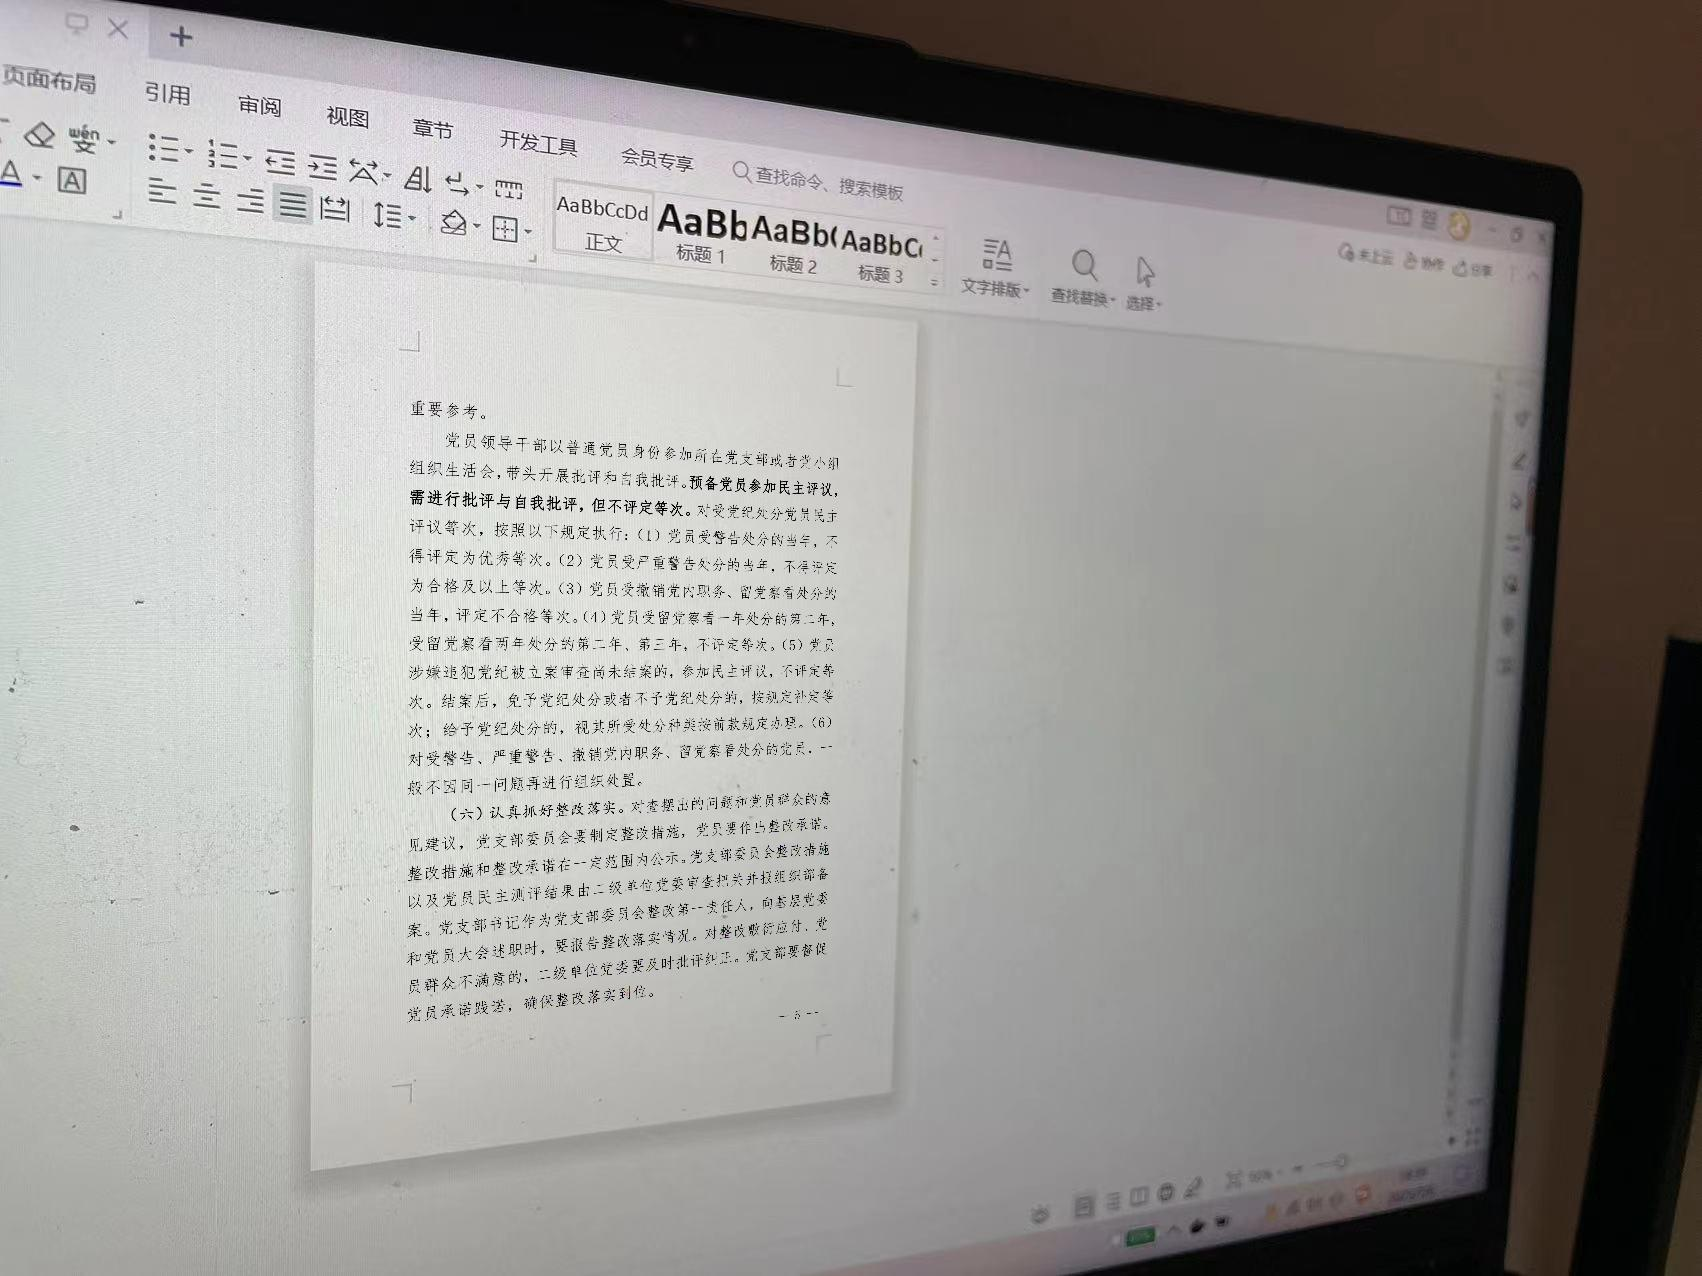
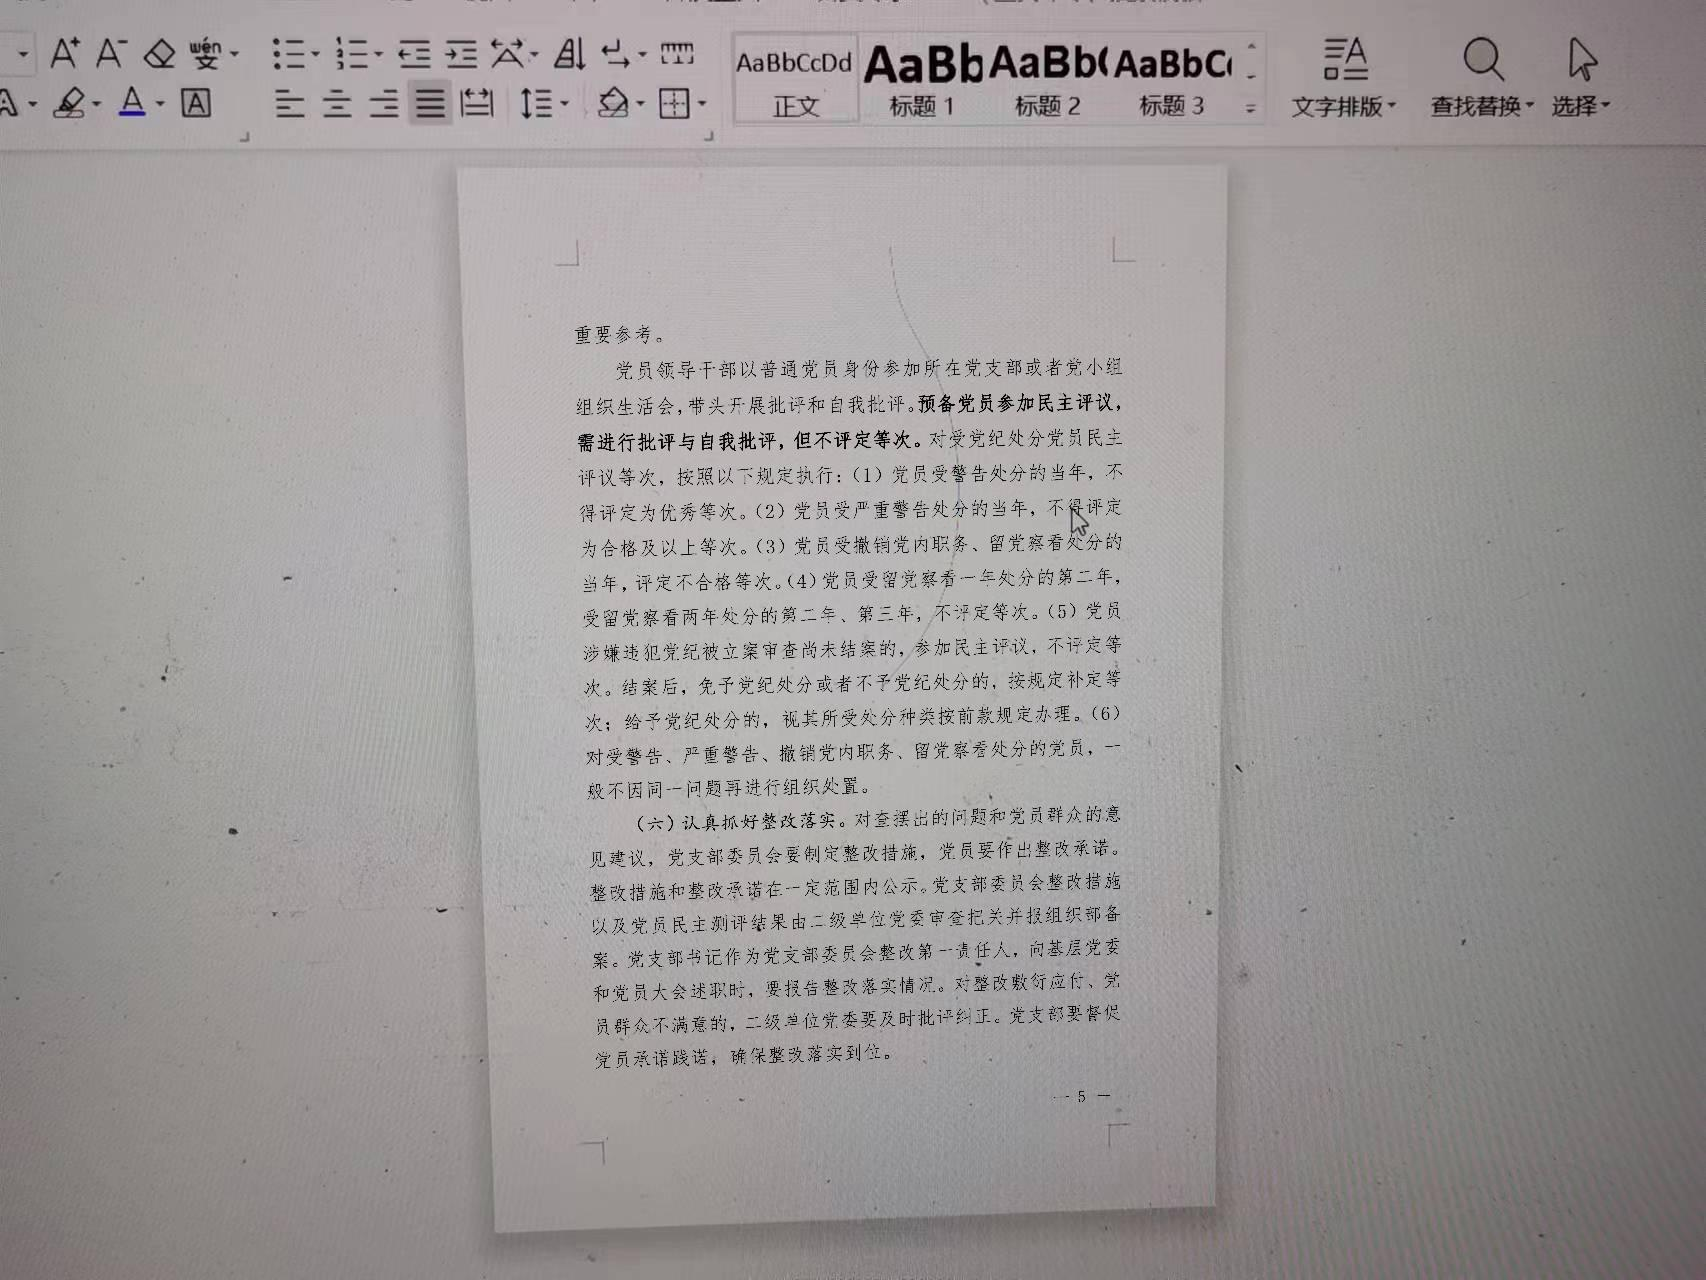
photo_screen

diff --git a/effects/screen_effect.py b/effects/screen_effect.py
@@ -1,0 +1,40 @@
+
+import cv2
+import numpy as np
+from PIL import Image
+import random
+
+
+class ScreenEffect:
+    def __init__(self):
+        # 背景图，四个坐标：左上，右上，右下，左下
+        self.screen = [
+            'moier1.jpg', 'moier2.jpg', 'moier3.jpg'
+        ]
+        self.background_path = 'effects/screen/'
+
+    def main(self, image):
+        # 将Pillow的Image对象转换为NumPy数组
+        image_array = np.array(image)
+        # # 将NumPy数组从RGB模式转换为BGR模式
+        # bgr_image_array = cv2.cvtColor(image_array, cv2.COLOR_RGB2BGR)
+        # 将NumPy数组转换为OpenCV的图像对象
+        image = cv2.cvtColor(image_array, cv2.COLOR_BGR2RGB)
+
+        height, width, _ = image.shape
+
+        screen_index = random.randint(0, len(self.screen)-1)
+
+        # 加载屏幕
+        moier = cv2.imread(self.background_path + self.screen[screen_index])
+        moier = cv2.resize(moier, (width, height))
+
+        # 将背景图像与透视变换后的图像相结合
+        result = cv2.bitwise_and(moier, image)
+
+        # 将OpenCV图像对象转换为RGB模式
+        rgb_image = cv2.cvtColor(result, cv2.COLOR_BGR2RGB)
+        # 创建Pillow的Image对象
+        result = Image.fromarray(rgb_image)
+
+        return result

diff --git a/effects/index.py b/effects/index.py
@@ -6,6 +6,7 @@ import math
 from effects.scan_effect import ScanEffect
 from effects.photo_effect import PhotoEffect
 from effects.photo_screen_effect import PhotoScreenEffect
+from effects.screen_effect import ScreenEffect
 
 
 class Effect:
@@ -16,6 +17,8 @@ class Effect:
             self.effect = PhotoEffect()
         elif type == 'photo_screen':
             self.effect = PhotoScreenEffect()
+        elif type == 'screen':
+            self.effect = ScreenEffect()
 
     def main(self, image):
         return self.effect.main(image)

diff --git a/main_jpg.py b/main_jpg.py
@@ -13,8 +13,8 @@ import glob
 orc = OCR.main
 # 关键字判断
 judge = Judge('./judge/keyword.dic')
-# 定义特效，扫描或拍照 type='photo'|type='scan'|type='photo_screen'
-effect = Effect(type='photo_screen')
+# 定义特效，扫描或拍照 type='photo'|type='scan'|type='photo_screen'|type='screen'
+effect = Effect(type='screen')
 
 
 def main():

diff --git a/main_pdf.py b/main_pdf.py
@@ -12,7 +12,7 @@ import glob
 
 orc = OCR.main
 judge = Judge('./judge/keyword.dic')
-effect = Effect(type='photo')
+effect = Effect(type='photo_screen')
 
 # 先将pdf转换为图像，后面过程同main_jpg
 
